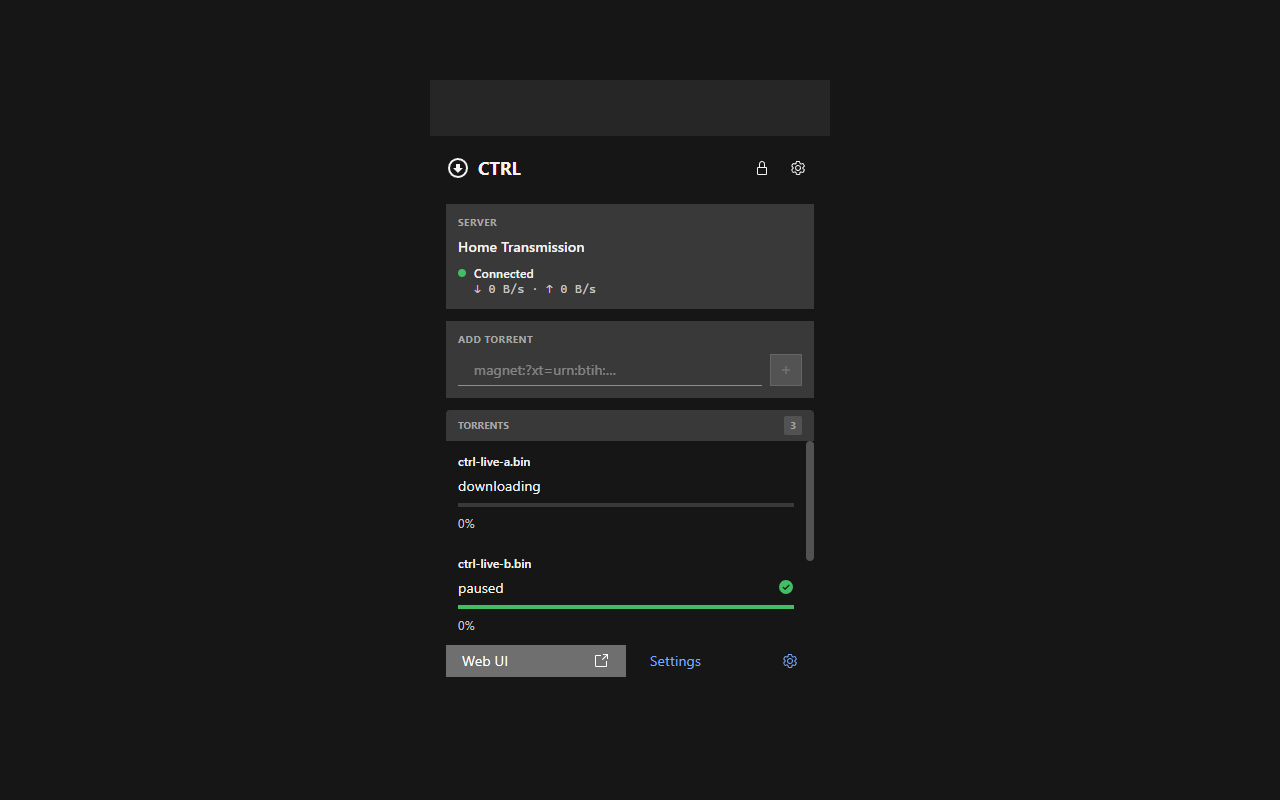
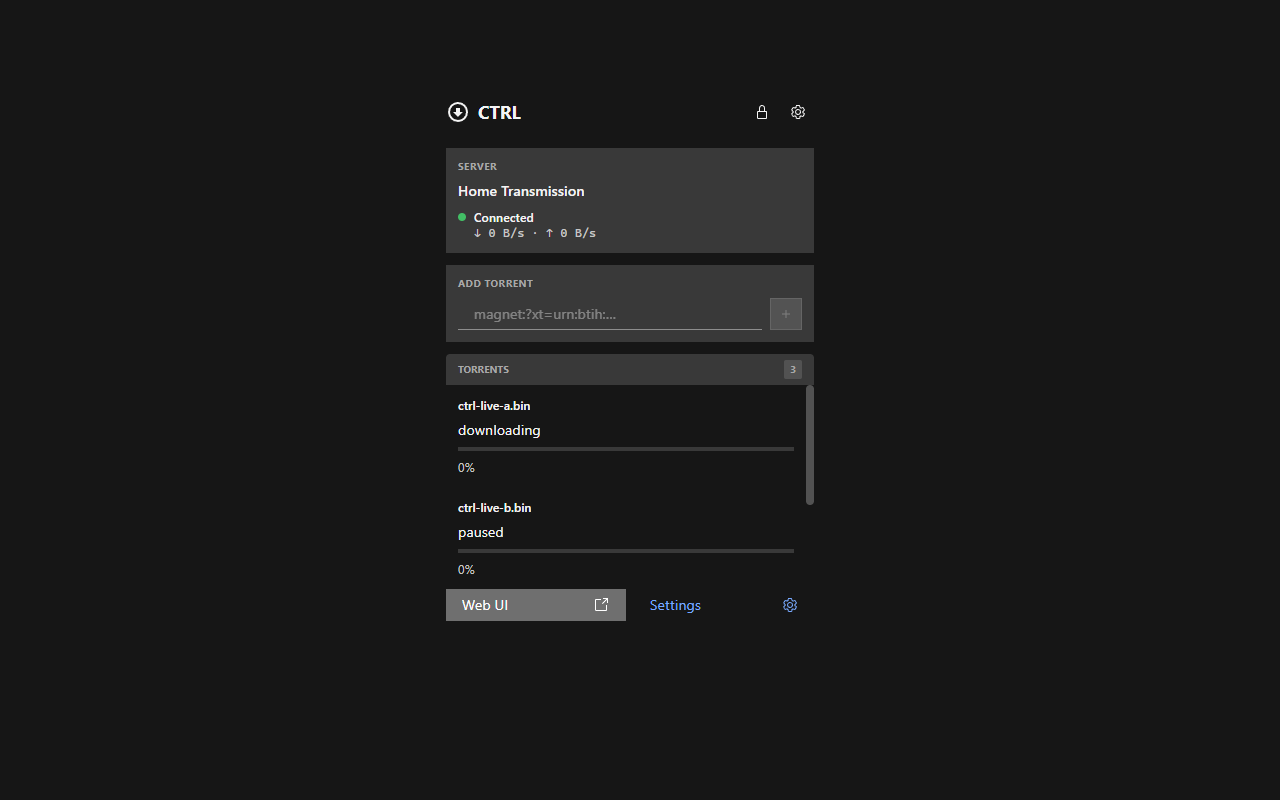
fix(popup): remove the empty header band and stop marking paused torrents as finished
Two details exposed by the store screenshots: the popup layout kept an
empty 56 px placeholder header above the title row, and the row progress bar
used Carbon's "finished" state (green bar with a check) for every torrent
that was not downloading, so a paused torrent at 0 % looked complete. The
bar now shows finished only at 100 %, error for errored torrents, and a
plain active bar otherwise. Screenshots recaptured; Transmission x Chrome
re-run in full on this tree (16/16).

Changed region(s): [[0.3438, 0.1875, 0.6562, 0.8438], [0.3438, 0.125, 0.4062, 0.1562], [0.5938, 0.8125, 0.625, 0.8438]]

diff --git a/extension/src/features/torrent-control/ui/Dashboard.tsx b/extension/src/features/torrent-control/ui/Dashboard.tsx
@@ -332,7 +332,7 @@ const LiveDashboard: React.FC<{ onLock: () => Promise<void> }> = ({ onLock }) =>
                                                 value={progress}
                                                 max={100}
                                                 size="small"
-                                                status={t.status === 'downloading' ? 'active' : 'finished'}
+                                                status={progress >= 100 ? 'finished' : t.status === 'error' ? 'error' : 'active'}
                                             />
                                         </li>
                                     );

diff --git a/extension/src/shared/ui/layout/MainLayout.tsx b/extension/src/shared/ui/layout/MainLayout.tsx
@@ -5,12 +5,9 @@ interface MainLayoutProps {
 }
 
 export const MainLayout: React.FC<MainLayoutProps> = ({ children }) => {
+    // The popup renders its own title row; no separate header band.
     return (
         <div className="flex flex-col h-full bg-background text-text-primary">
-            {/* Header */}
-            <div className="flex-none h-14 border-b border-subtle bg-layer-01 flex items-center px-4 justify-between z-10">
-                {/* Content for header goes here, e.g., title, user info, etc. */}
-            </div>
             <div className="flex-1 flex flex-col overflow-hidden">
                 {children}
             </div>

diff --git a/docs/release/v1/evidence/live-transmission-chrome.md b/docs/release/v1/evidence/live-transmission-chrome.md
@@ -1,6 +1,6 @@
 # Live verification: Transmission × Chrome
 
-- ran: 2026-09-09T23:07:55.685Z
+- ran: 2026-09-09T23:40:12.559Z
 - extension: CTRL 0.2.0-beta.1 (built from the working tree)
 - browser: chrome Chrome/152.0.7977.83
 - client: Transmission 4.1.3 (838877323f) (rpc 19)
@@ -13,22 +13,22 @@
 
 | Scenario | Result | Observed | ms |
 |---|---|---|---|
-| vault-setup | PASS | master password created; options dashboard shown | 1050 |
-| configure-server | PASS | form filled (address http://192.168.1.235:19091/); credential disclosure shown; plain-http warning not shown (private host) | 1599 |
-| grant-permission | PASS | granted (invoked 'Allow' in window 'CTRL Settings - Google Chrome' (pid 14804)) | 1676 |
-| test-connection | PASS | Connection successful | 265 |
-| save-server | PASS | saved; list shows stored address verbatim: true | 265 |
-| connected | PASS | dashboard status: LIVE | 498 |
-| add-magnet | PASS | popup: Torrent added; server has ctrl-live-a.bin (638ceb8d793cd066ae854013514d1f32f95fb752) status=4 | 1636 |
-| list-shows-torrent | PASS | rows: ["ctrl-live-a.bin, Downloading, 0%"] | 527 |
-| add-paused | PASS | server shows ctrl-live-b.bin status=0 (paused) | 2500 |
-| pause | PASS | server: ctrl-live-a.bin status=0 | 1252 |
-| resume | PASS | server: ctrl-live-a.bin status=4 | 15 |
-| remove-keep-files | PASS | removed on server; other torrent untouched: true | 802 |
-| bad-credentials | PASS | test: Connection failed Authentication failed. Check your Transmission username and password.; dashboard: AUTHENTICATION FAILED; restored → LIVE | 27821 |
-| server-unavailable | PASS | dashboard: CONNECTION LOST | 3169 |
-| reconnect-after-restart | PASS | dashboard: LIVE; server lists 1 torrent(s) after restart | 530 |
-| browser-restart-lock | PASS | locked after restart; unlocked → LIVE; host grant had to be repeated after the harness reloaded the unpacked extension (recovery flow via Servers → Grant access worked) | 5297 |
+| vault-setup | PASS | master password created; options dashboard shown | 1057 |
+| configure-server | PASS | form filled (address http://192.168.1.235:19091/); credential disclosure shown; plain-http warning not shown (private host) | 1591 |
+| grant-permission | PASS | granted (invoked 'Allow' in window 'CTRL Settings - Google Chrome' (pid 8376)) | 1676 |
+| test-connection | PASS | Connection successful | 288 |
+| save-server | PASS | saved; list shows stored address verbatim: true | 284 |
+| connected | PASS | dashboard status: LIVE | 510 |
+| add-magnet | PASS | popup: Torrent added; server has ctrl-live-a.bin (638ceb8d793cd066ae854013514d1f32f95fb752) status=4 | 1646 |
+| list-shows-torrent | PASS | rows: ["ctrl-live-a.bin, Downloading, 0%"] | 526 |
+| add-paused | PASS | server shows ctrl-live-b.bin status=0 (paused) | 2505 |
+| pause | PASS | server: ctrl-live-a.bin status=0 | 1258 |
+| resume | PASS | server: ctrl-live-a.bin status=4 | 31 |
+| remove-keep-files | PASS | removed on server; other torrent untouched: true | 815 |
+| bad-credentials | PASS | test: Connection failed Authentication failed. Check your Transmission username and password.; dashboard: AUTHENTICATION FAILED; restored → LIVE | 27930 |
+| server-unavailable | PASS | dashboard: CONNECTION LOST | 3207 |
+| reconnect-after-restart | PASS | dashboard: LIVE; server lists 1 torrent(s) after restart | 2071 |
+| browser-restart-lock | PASS | locked after restart; unlocked → LIVE; host grant had to be repeated after the harness reloaded the unpacked extension (recovery flow via Servers → Grant access worked) | 5364 |
 
 ## Notes
 
@@ -38,44 +38,44 @@
 ## Client log excerpt (sanitized, last lines)
 
 ```
-[2026-09-09T16:57:25.013-0700] inf daemon.cc:865 Loading settings from 'C:\Users\construct\AppData\Local\Temp\claude\E--Citadel-CTRL\f43b56c4-28d6-4976-aa15-46a8fa8b0f6d\scratchpad\live\run\transmission\config' (daemon.cc:865)
-[2026-09-09T16:57:25.017-0700] inf daemon.cc:908 Requiring authentication (daemon.cc:908)
-[2026-09-09T16:57:25.019-0700] inf session.cc:1587 Loaded 1 torrent (session.cc:1587)
-[2026-09-09T16:57:25.487-0700] WRN rpc-server.cc:571 Rejected request from 127.0.0.1 (failed authentication) (rpc-server.cc:571)
-[2026-09-09T16:57:25.516-0700] inf ctrl-live-b.bin Removing torrent (torrent.cc:798)
-[2026-09-09T16:57:25.516-0700] inf ctrl-live-b.bin Pausing torrent (torrent.cc:710)
-[2026-09-09T16:57:26.036-0700] inf ip-cache.cc:220 Cached IPv6 global address 2600:6c67:3700:cb9:b4fc:30c1:b737:1405 (ip-cache.cc:220)
-[2026-09-09T16:57:26.089-0700] inf ip-cache.cc:220 Cached IPv4 global address 47.5.17.28 (ip-cache.cc:220)
-[2026-09-09T16:58:09.977-0700] WRN rpc-server.cc:571 Rejected request from 127.0.0.1 (failed authentication) (rpc-server.cc:571)
-[2026-09-09T16:59:42.720-0700] WRN rpc-server.cc:571 Rejected request from 127.0.0.1 (failed authentication) (rpc-server.cc:571)
-[2026-09-09T17:01:08.184-0700] WRN rpc-server.cc:571 Rejected request from 127.0.0.1 (failed authentication) (rpc-server.cc:571)
-[2026-09-09T17:03:14.734-0700] WRN rpc-server.cc:571 Rejected request from 127.0.0.1 (failed authentication) (rpc-server.cc:571)
-[2026-09-09T17:07:04.548-0700] WRN rpc-server.cc:571 Rejected request from 127.0.0.1 (failed authentication) (rpc-server.cc:571)
-[2026-09-09T17:07:16.007-0700] inf ctrl-live-a.bin Pausing torrent (torrent.cc:710)
-[2026-09-09T17:07:16.785-0700] inf ctrl-live-a.bin Removing torrent (torrent.cc:798)
-[2026-09-09T17:07:16.785-0700] inf ctrl-live-a.bin Pausing torrent (torrent.cc:710)
-[2026-09-09T17:07:18.423-0700] WRN rpc-server.cc:571 Rejected request from 192.168.1.235 (failed authentication) (rpc-server.cc:571)
-[2026-09-09T17:07:19.429-0700] WRN rpc-server.cc:571 Rejected request from 192.168.1.235 (failed authentication) (rpc-server.cc:571)
-[2026-09-09T17:07:21.435-0700] WRN rpc-server.cc:571 Rejected request from 192.168.1.235 (failed authentication) (rpc-server.cc:571)
-[2026-09-09T17:07:25.446-0700] WRN rpc-server.cc:571 Rejected request from 192.168.1.235 (failed authentication) (rpc-server.cc:571)
-[2026-09-09T17:07:33.455-0700] WRN rpc-server.cc:571 Rejected request from 192.168.1.235 (failed authentication) (rpc-server.cc:571)
-[2026-09-09T17:07:33.706-0700] WRN rpc-server.cc:571 Rejected request from 192.168.1.235 (failed authentication) (rpc-server.cc:571)
-[2026-09-09T17:07:48.588-0700] inf ip-cache.cc:385 Cached IPv4 source address 192.168.1.235 (ip-cache.cc:385)
-[2026-09-09T17:07:48.588-0700] inf ip-cache.cc:385 Cached IPv6 source address 2600:6c67:3700:cb9:b4fc:30c1:b737:1405 (ip-cache.cc:385)
-[2026-09-09T17:07:48.588-0700] inf session.cc:424 Listening to incoming peer connections on 0.0.0.0:16881 (session.cc:424)
-[2026-09-09T17:07:48.588-0700] inf session.cc:424 Listening to incoming peer connections on [2600:6c67:3700:cb9:b4fc:30c1:b737:1405]:16881 (session.cc:424)
-[2026-09-09T17:07:48.588-0700] inf tr-udp.cc:207 Bound UDP IPv4 address 0.0.0.0:16881 (tr-udp.cc:207)
-[2026-09-09T17:07:48.588-0700] inf tr-udp.cc:254 Bound UDP IPv6 address [2600:6c67:3700:cb9:b4fc:30c1:b737:1405]:16881 (tr-udp.cc:254)
-[2026-09-09T17:07:48.588-0700] inf rpc-server.cc:878 Added '*.*.*.*' to host whitelist (rpc-server.cc:878)
-[2026-09-09T17:07:48.588-0700] inf rpc-server.cc:1013 Serving RPC and Web requests on 0.0.0.0:19091/transmission/ (rpc-server.cc:1013)
-[2026-09-09T17:07:48.589-0700] inf rpc-server.cc:825 Listening for RPC and Web requests on '0.0.0.0:19091' (rpc-server.cc:825)
-[2026-09-09T17:07:48.589-0700] inf rpc-server.cc:1018 Whitelist enabled (rpc-server.cc:1018)
-[2026-09-09T17:07:48.589-0700] inf rpc-server.cc:1023 Password required (rpc-server.cc:1023)
-[2026-09-09T17:07:48.589-0700] inf rpc-server.cc:1038 Serving RPC and Web requests from 'C:\Users\construct\AppData\Local\Temp\claude\E--Citadel-CTRL\f43b56c4-28d6-4976-aa15-46a8fa8b0f6d\scratchpad\live\bin\transmission\PFiles\Transmission/public_html' (rpc-server.cc:1038)
-[2026-09-09T17:07:48.589-0700] inf daemon.cc:865 Loading settings from 'C:\Users\construct\AppData\Local\Temp\claude\E--Citadel-CTRL\f43b56c4-28d6-4976-aa15-46a8fa8b0f6d\scratchpad\live\run\transmission\config' (daemon.cc:865)
-[2026-09-09T17:07:48.592-0700] inf daemon.cc:908 Requiring authentication (daemon.cc:908)
-[2026-09-09T17:07:48.595-0700] inf session.cc:1587 Loaded 1 torrent (session.cc:1587)
-[2026-09-09T17:07:49.062-0700] WRN rpc-server.cc:571 Rejected request from 127.0.0.1 (failed authentication) (rpc-server.cc:571)
-[2026-09-09T17:07:49.572-0700] inf ip-cache.cc:220 Cached IPv6 global address 2600:6c67:3700:cb9:b4fc:30c1:b737:1405 (ip-cache.cc:220)
-[2026-09-09T17:07:49.578-0700] inf ip-cache.cc:220 Cached IPv4 global address 47.5.17.28 (ip-cache.cc:220)
+[2026-09-09T17:35:46.058-0700] inf ctrl-live-c.bin Removing torrent (torrent.cc:798)
+[2026-09-09T17:35:46.058-0700] inf ctrl-live-c.bin Pausing torrent (torrent.cc:710)
+[2026-09-09T17:38:26.665-0700] WRN rpc-server.cc:571 Rejected request from 127.0.0.1 (failed authentication) (rpc-server.cc:571)
+[2026-09-09T17:38:40.730-0700] inf ctrl-live-a.bin Removing torrent (torrent.cc:798)
+[2026-09-09T17:38:40.730-0700] inf ctrl-live-a.bin Pausing torrent (torrent.cc:710)
+[2026-09-09T17:38:40.732-0700] inf ctrl-live-b.bin Removing torrent (torrent.cc:798)
+[2026-09-09T17:38:40.732-0700] inf ctrl-live-b.bin Pausing torrent (torrent.cc:710)
+[2026-09-09T17:38:40.732-0700] inf ctrl-live-c.bin Removing torrent (torrent.cc:798)
+[2026-09-09T17:38:40.732-0700] inf ctrl-live-c.bin Pausing torrent (torrent.cc:710)
+[2026-09-09T17:38:55.903-0700] WRN rpc-server.cc:571 Rejected request from 127.0.0.1 (failed authentication) (rpc-server.cc:571)
+[2026-09-09T17:39:04.387-0700] inf ctrl-live-a.bin Removing torrent (torrent.cc:798)
+[2026-09-09T17:39:04.387-0700] inf ctrl-live-a.bin Pausing torrent (torrent.cc:710)
+[2026-09-09T17:39:19.629-0700] WRN rpc-server.cc:571 Rejected request from 127.0.0.1 (failed authentication) (rpc-server.cc:571)
+[2026-09-09T17:39:31.160-0700] inf ctrl-live-a.bin Pausing torrent (torrent.cc:710)
+[2026-09-09T17:39:31.938-0700] inf ctrl-live-a.bin Removing torrent (torrent.cc:798)
+[2026-09-09T17:39:31.938-0700] inf ctrl-live-a.bin Pausing torrent (torrent.cc:710)
+[2026-09-09T17:39:33.574-0700] WRN rpc-server.cc:571 Rejected request from 192.168.1.235 (failed authentication) (rpc-server.cc:571)
+[2026-09-09T17:39:34.578-0700] WRN rpc-server.cc:571 Rejected request from 192.168.1.235 (failed authentication) (rpc-server.cc:571)
+[2026-09-09T17:39:36.582-0700] WRN rpc-server.cc:571 Rejected request from 192.168.1.235 (failed authentication) (rpc-server.cc:571)
+[2026-09-09T17:39:40.597-0700] WRN rpc-server.cc:571 Rejected request from 192.168.1.235 (failed authentication) (rpc-server.cc:571)
+[2026-09-09T17:39:48.609-0700] WRN rpc-server.cc:571 Rejected request from 192.168.1.235 (failed authentication) (rpc-server.cc:571)
+[2026-09-09T17:39:48.875-0700] WRN rpc-server.cc:571 Rejected request from 192.168.1.235 (failed authentication) (rpc-server.cc:571)
+[2026-09-09T17:40:03.868-0700] inf ip-cache.cc:385 Cached IPv4 source address 192.168.1.235 (ip-cache.cc:385)
+[2026-09-09T17:40:03.868-0700] inf ip-cache.cc:385 Cached IPv6 source address 2600:6c67:3700:cb9:b4fc:30c1:b737:1405 (ip-cache.cc:385)
+[2026-09-09T17:40:03.868-0700] inf session.cc:424 Listening to incoming peer connections on 0.0.0.0:16881 (session.cc:424)
+[2026-09-09T17:40:03.868-0700] inf session.cc:424 Listening to incoming peer connections on [2600:6c67:3700:cb9:b4fc:30c1:b737:1405]:16881 (session.cc:424)
+[2026-09-09T17:40:03.868-0700] inf tr-udp.cc:207 Bound UDP IPv4 address 0.0.0.0:16881 (tr-udp.cc:207)
+[2026-09-09T17:40:03.868-0700] inf tr-udp.cc:254 Bound UDP IPv6 address [2600:6c67:3700:cb9:b4fc:30c1:b737:1405]:16881 (tr-udp.cc:254)
+[2026-09-09T17:40:03.868-0700] inf rpc-server.cc:878 Added '*.*.*.*' to host whitelist (rpc-server.cc:878)
+[2026-09-09T17:40:03.868-0700] inf rpc-server.cc:1013 Serving RPC and Web requests on 0.0.0.0:19091/transmission/ (rpc-server.cc:1013)
+[2026-09-09T17:40:03.869-0700] inf rpc-server.cc:825 Listening for RPC and Web requests on '0.0.0.0:19091' (rpc-server.cc:825)
+[2026-09-09T17:40:03.869-0700] inf rpc-server.cc:1018 Whitelist enabled (rpc-server.cc:1018)
+[2026-09-09T17:40:03.869-0700] inf rpc-server.cc:1023 Password required (rpc-server.cc:1023)
+[2026-09-09T17:40:03.869-0700] inf rpc-server.cc:1038 Serving RPC and Web requests from 'C:\Users\construct\AppData\Local\Temp\claude\E--Citadel-CTRL\f43b56c4-28d6-4976-aa15-46a8fa8b0f6d\scratchpad\live\bin\transmission\PFiles\Transmission/public_html' (rpc-server.cc:1038)
+[2026-09-09T17:40:03.869-0700] inf daemon.cc:865 Loading settings from 'C:\Users\construct\AppData\Local\Temp\claude\E--Citadel-CTRL\f43b56c4-28d6-4976-aa15-46a8fa8b0f6d\scratchpad\live\run\transmission\config' (daemon.cc:865)
+[2026-09-09T17:40:03.873-0700] inf daemon.cc:908 Requiring authentication (daemon.cc:908)
+[2026-09-09T17:40:03.880-0700] inf session.cc:1587 Loaded 1 torrent (session.cc:1587)
+[2026-09-09T17:40:04.342-0700] WRN rpc-server.cc:571 Rejected request from 127.0.0.1 (failed authentication) (rpc-server.cc:571)
+[2026-09-09T17:40:04.871-0700] inf ip-cache.cc:220 Cached IPv4 global address 47.5.17.28 (ip-cache.cc:220)
+[2026-09-09T17:40:04.884-0700] inf ip-cache.cc:220 Cached IPv6 global address 2600:6c67:3700:cb9:b4fc:30c1:b737:1405 (ip-cache.cc:220)
 ```
